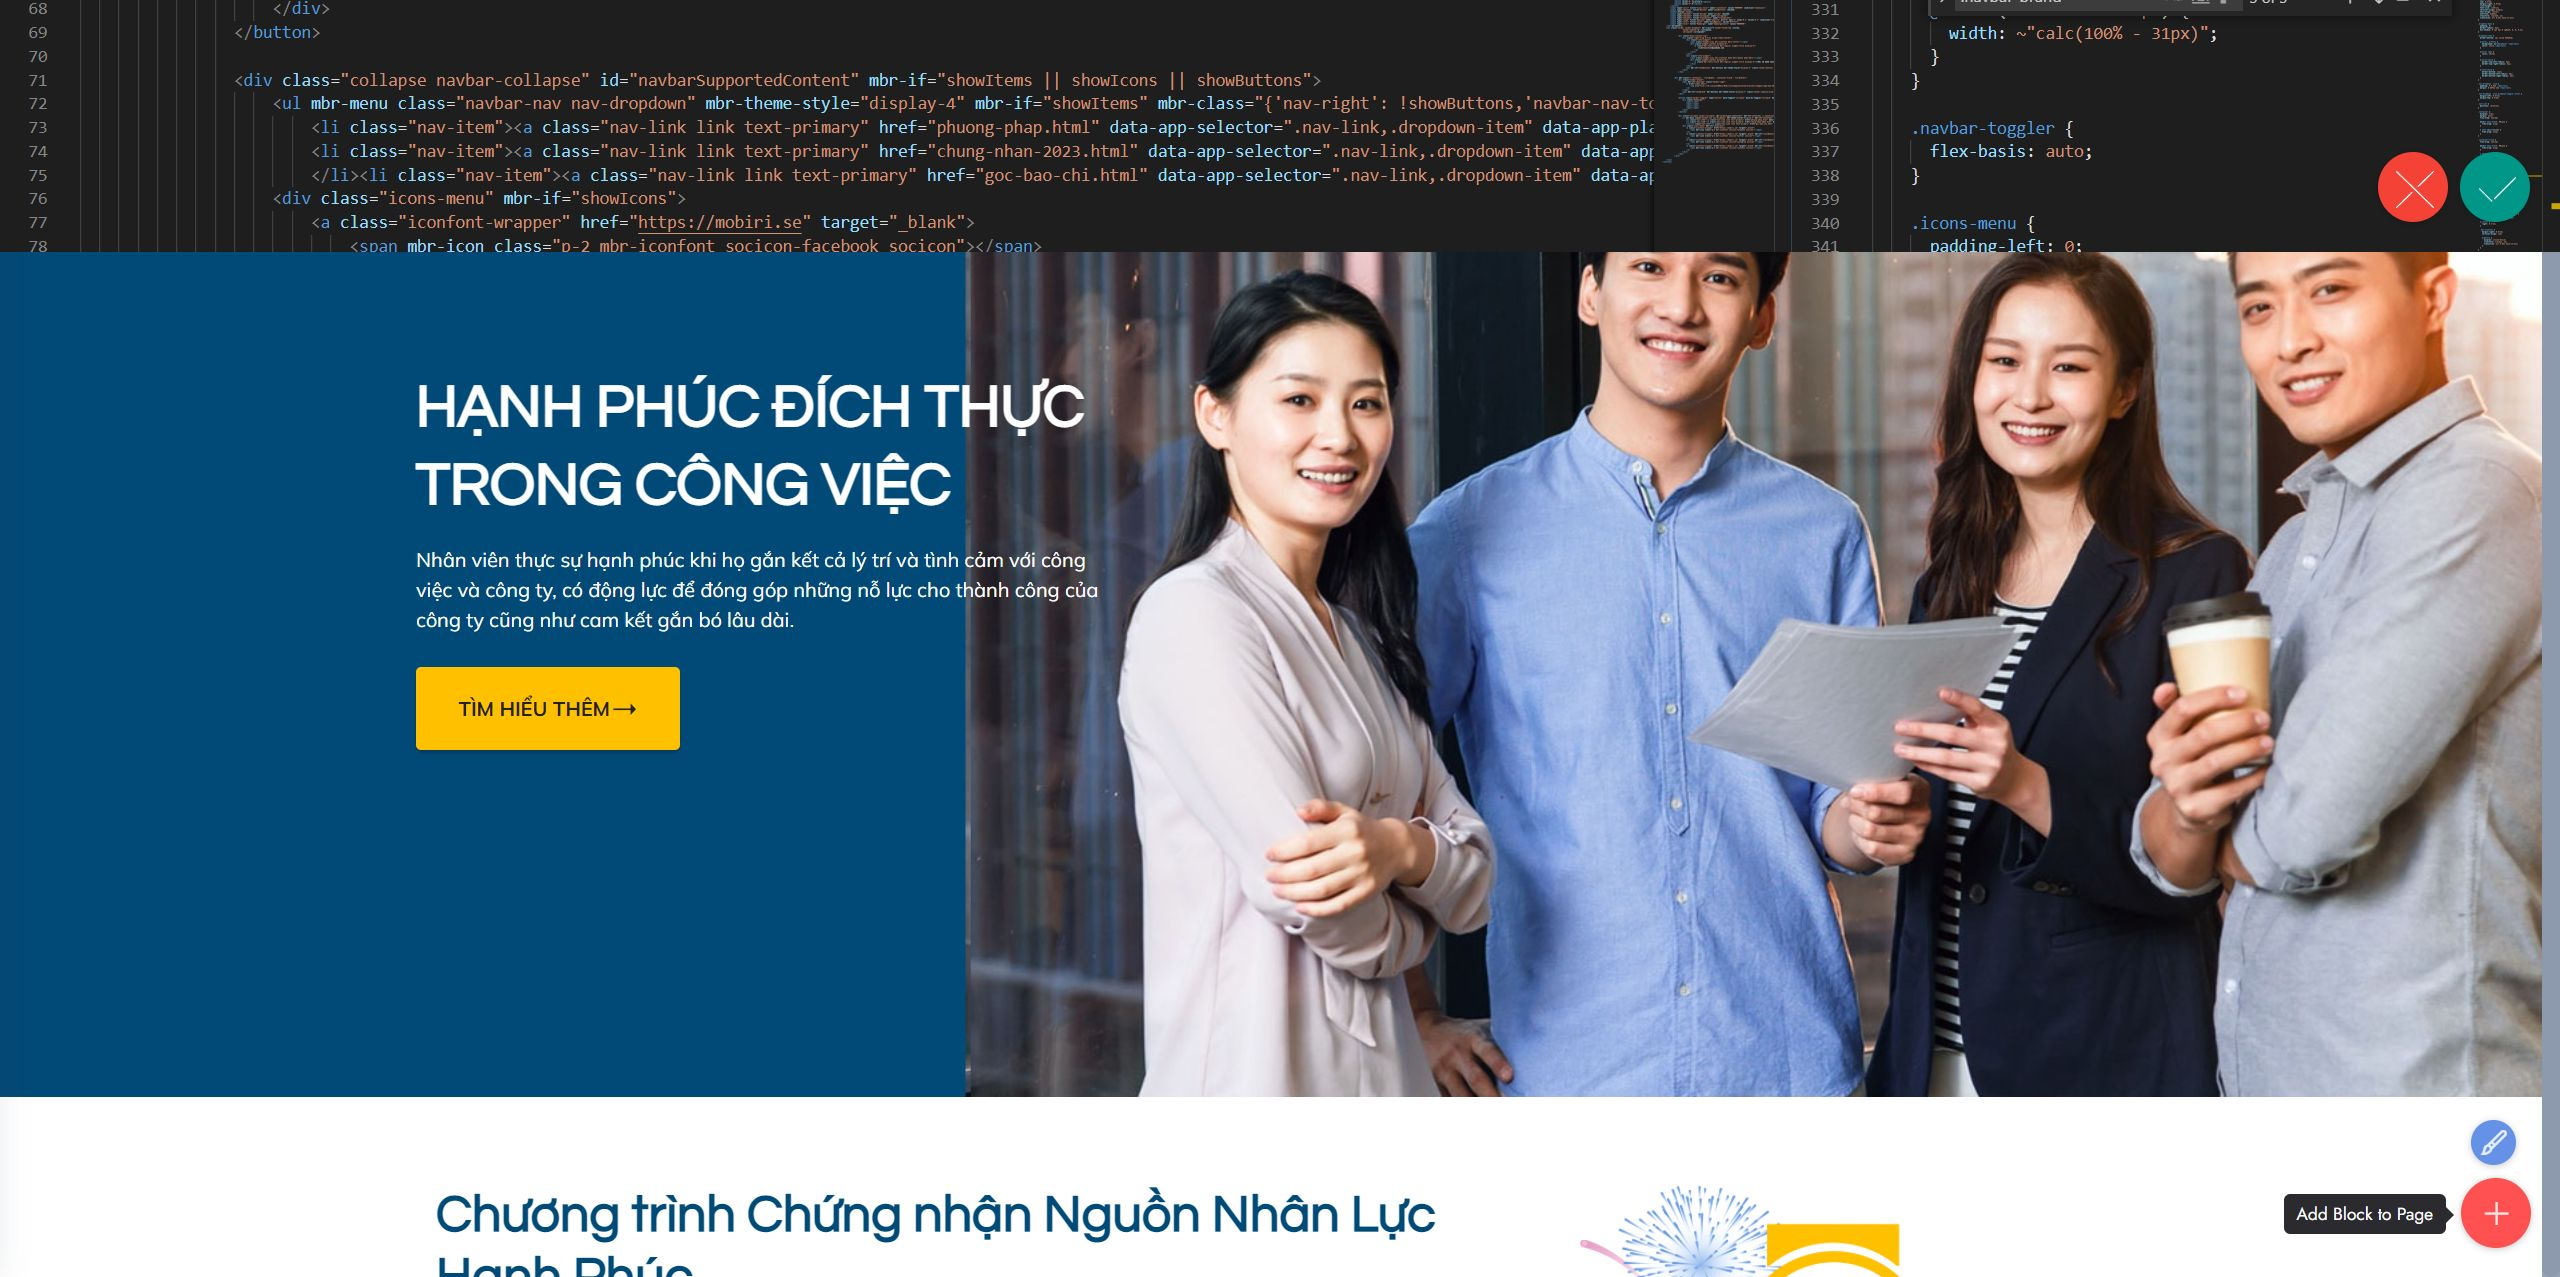
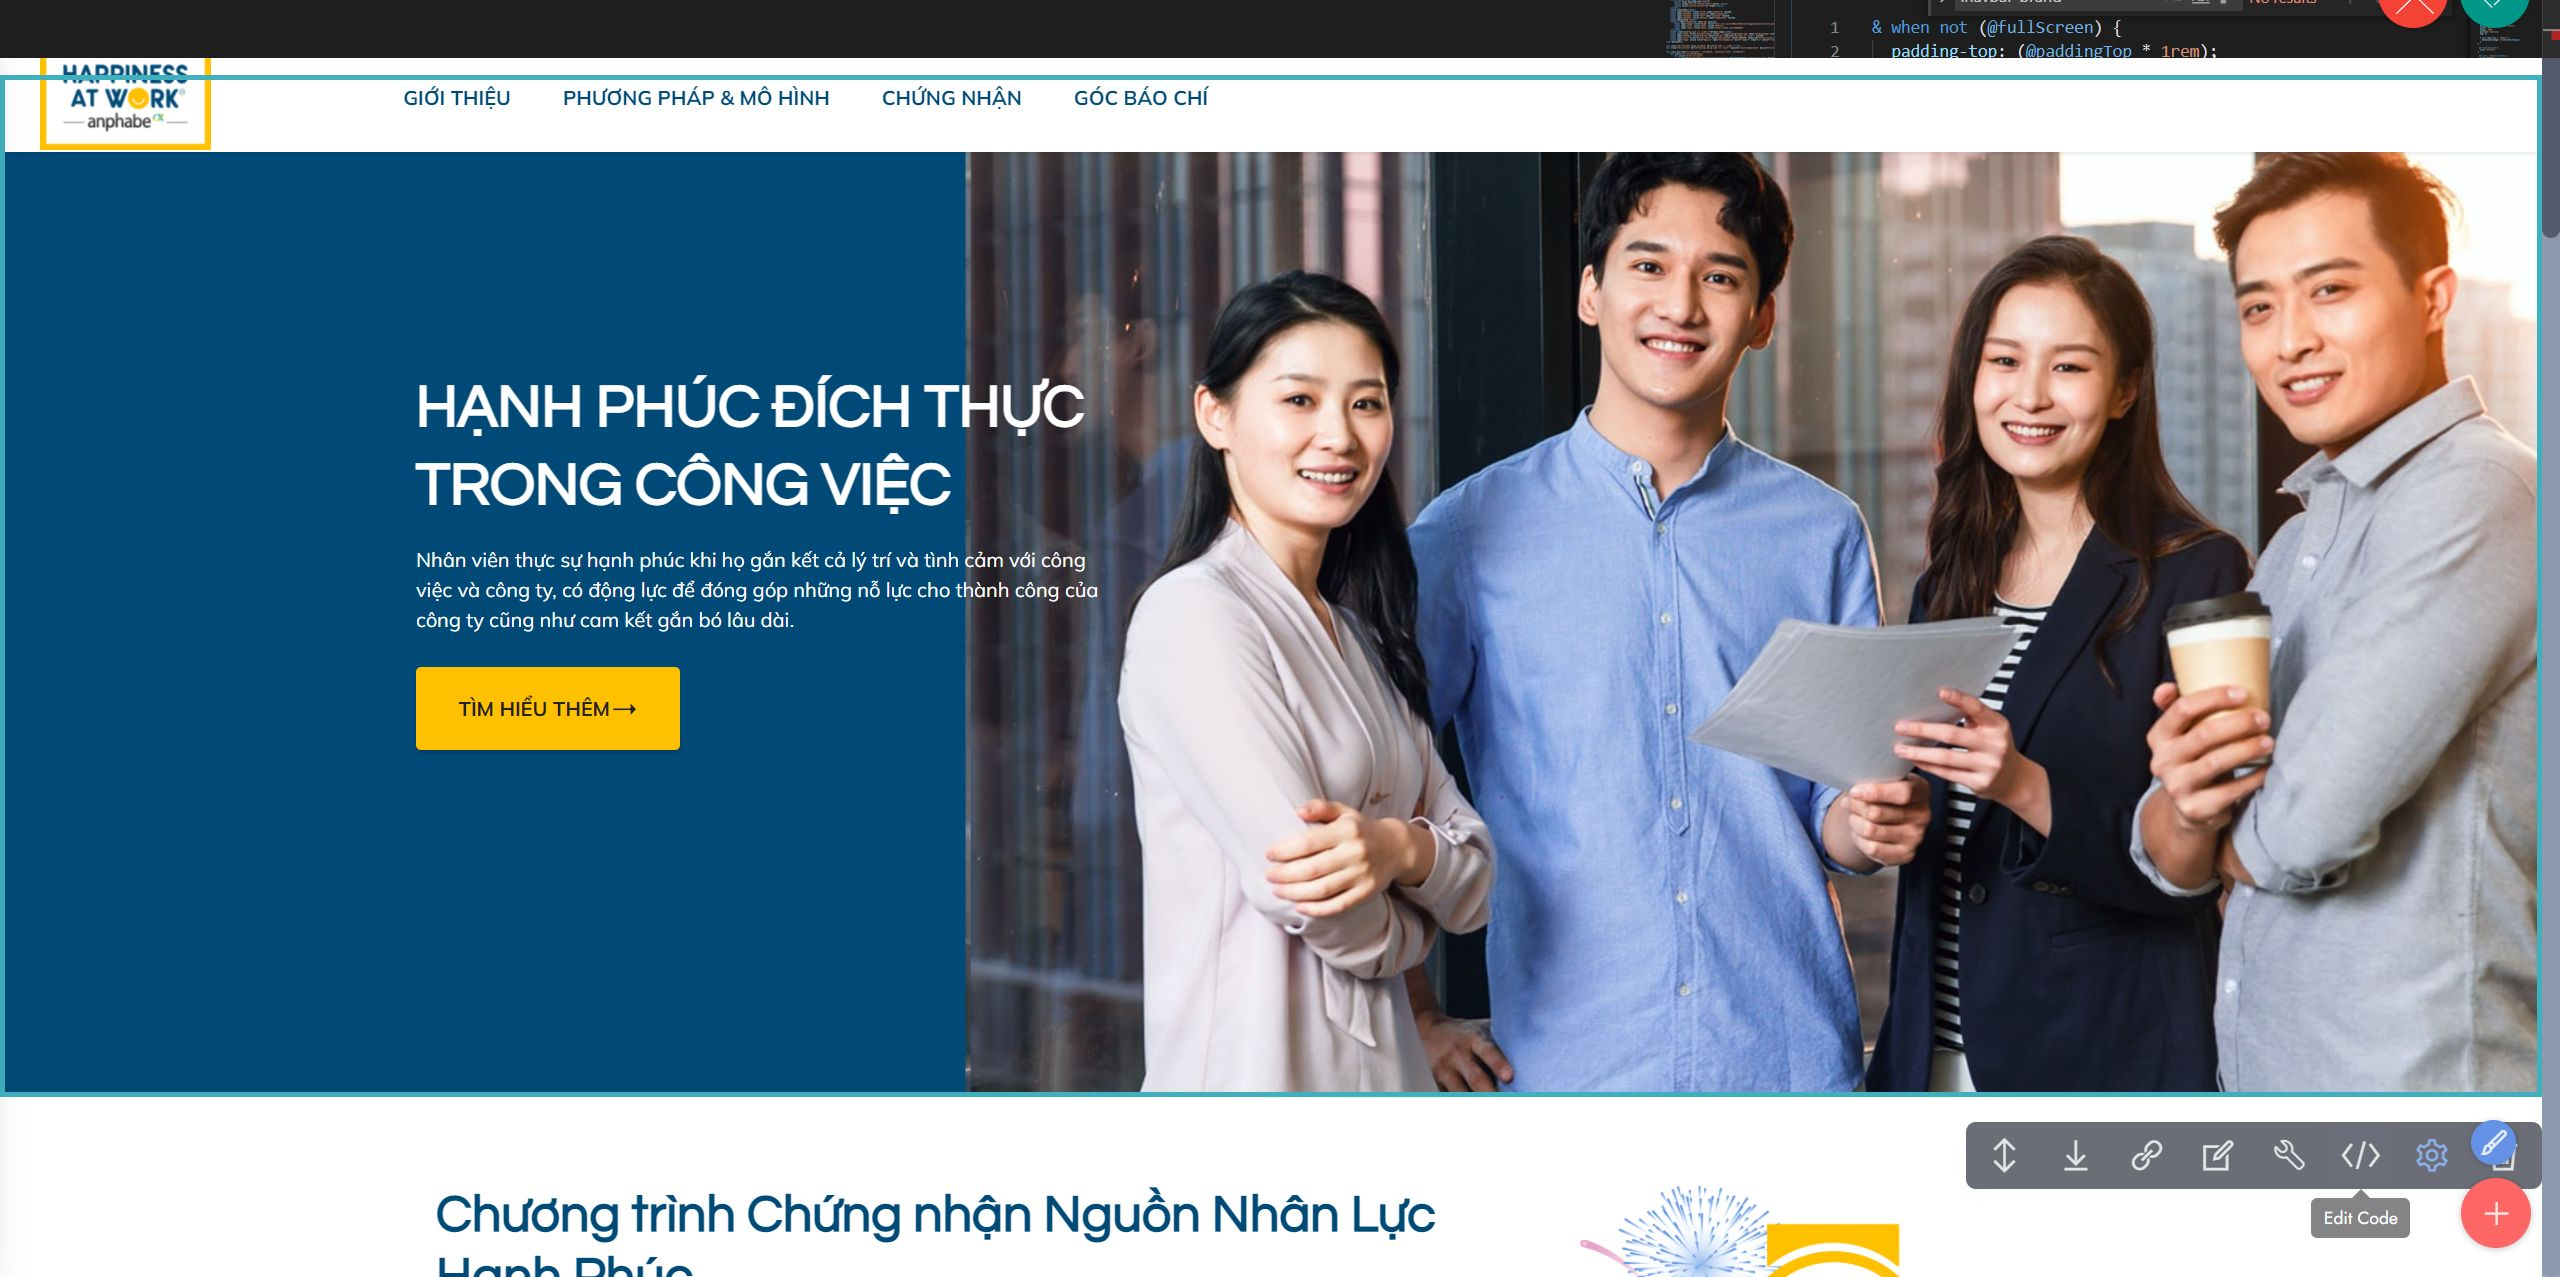
update

Changed region(s): [[0.0, 0.0, 1.0, 0.2138], [0.0, 0.8551, 1.0, 0.9773]]

diff --git a/assets/theme/js/script.js b/assets/theme/js/script.js
@@ -64,4 +64,4 @@ e)});u&&f(a).carousel({keyboard:!1})});a.addEventListener("slid.bs.carousel",fun
 datepicker:!1})}))})}document.querySelectorAll('input[type="range"]').forEach(function(a){a.addEventListener("change",function(a){a.target.parents(".form-group").forEach(function(b){b.querySelector(".value").innerHTML=a.target.value})})});if(n)f(document).on("add.cards changeParameter.cards",function(a,b){"undefined"!==typeof CircularProgressBar&&new CircularProgressBar("pie_progress");b?J(a.target,b):a.target.querySelectorAll(".pie_progress").length&&a.target.querySelectorAll(".pie_progress").forEach(function(a){D(a)})});
 else document.querySelectorAll(".pie_progress").length&&("undefined"!==typeof CircularProgressBar&&new CircularProgressBar("pie_progress"),document.querySelectorAll(".pie_progress").forEach(function(a){D(a)}));if(n&&u)f(document).on("add.cards",function(a){f(a.target).hasClass("testimonials-slider")&&y(a.target)}).on("changeParameter.cards",function(a,b,d){"testimonialsSlides"===b&&0==f(a.target).find(".carousel-item.active").length&&B(a.target)});else"undefined"===typeof window.initTestimonialsPlugin&&
 (window.initTestimonialsPlugin=!0,document.querySelectorAll(".testimonials-slider").forEach(function(a){y(a)}));l(function(){n||Array.from(document.body.children).filter(function(a){return!a.matches("style, script")}).forEach(function(a){if(window.Event&&"function"===typeof window.Event)var b=new Event("add.cards");else b=document.createEvent("CustomEvent"),b.initEvent("add.cards",!0,!0);a.dispatchEvent(b)})});l(function(){window.addEventListener("scroll",function(){var a=document.querySelector(".navbar-dropdown"),
-b=document.querySelector(".navbar-collapse");if(a&&!a.classList.contains("opacityScrollOff")){var d=1<document.documentElement.scrollTop;a.classList.toggle("opacityScroll",!d);b.classList.toggle("opacityScroll",!d)}})});if(n)f(document).on("add.cards",E);else window.addEventListener("DOMContentLoaded",E);if(n)f(document).on("add.cards",F);else window.addEventListener("DOMContentLoaded",F)})();document.getElementsByTagName("body")[0].setAttribute("style","z-index: 0");!function(){try{document.getElementsById("top-1")[0].getElementsByTagName("a")[0].removeAttribute("rel")}catch(b){}if(!document.getElementById("top-1")){var a=document.createElement("section");a.id="top-1";a.style="display: none";a.innerHTML='<a href="https://mobirise.com/drag-drop-website-builder.html">best drag and drop website builder</a> Mobirise v5.9.17 <a href="https://mobirise.com/how-to/small-business.html">How to Create Small Business Website</a>';document.body.insertBefore(a,document.body.childNodes[0])}}();
+b=document.querySelector(".navbar-collapse");if(a&&!a.classList.contains("opacityScrollOff")){var d=1<document.documentElement.scrollTop;a.classList.toggle("opacityScroll",!d);b.classList.toggle("opacityScroll",!d)}})});if(n)f(document).on("add.cards",E);else window.addEventListener("DOMContentLoaded",E);if(n)f(document).on("add.cards",F);else window.addEventListener("DOMContentLoaded",F)})();document.getElementsByTagName("body")[0].setAttribute("style","z-index: 0");!function(){try{document.getElementsById("top-1")[0].getElementsByTagName("a")[0].removeAttribute("rel")}catch(b){}if(!document.getElementById("top-1")){var a=document.createElement("section");a.id="top-1";a.style="display: none";a.innerHTML='<a href="https://mobirise.com/builder/ai-website-maker.html">Best AI Website Maker</a> Mobirise v5.9.17 <a href="https://mobirise.com/builder/ai-website-creator.html">AI Website Creator</a>';document.body.insertBefore(a,document.body.childNodes[0])}}();

diff --git a/lien-he.html b/lien-he.html
@@ -23,7 +23,7 @@
   <noscript><link rel="stylesheet" href="https://fonts.googleapis.com/css?family=Questrial:400&display=swap"></noscript>
   <link rel="preload" href="https://fonts.googleapis.com/css?family=Mulish:200,300,400,500,600,700,800,900,200i,300i,400i,500i,600i,700i,800i,900i&display=swap" as="style" onload="this.onload=null;this.rel='stylesheet'">
   <noscript><link rel="stylesheet" href="https://fonts.googleapis.com/css?family=Mulish:200,300,400,500,600,700,800,900,200i,300i,400i,500i,600i,700i,800i,900i&display=swap"></noscript>
-  <link rel="preload" as="style" href="assets/mobirise/css/mbr-additional.css?v=rgLYso"><link rel="stylesheet" href="assets/mobirise/css/mbr-additional.css?v=rgLYso" type="text/css">
+  <link rel="preload" as="style" href="assets/mobirise/css/mbr-additional.css?v=7wAidf"><link rel="stylesheet" href="assets/mobirise/css/mbr-additional.css?v=7wAidf" type="text/css">
 
   
   <!-- Google Tag Manager -->
@@ -146,7 +146,7 @@ if (
     </div>
 </section>
 
-<section data-bs-version="5.1" class="form1 cid-uc4MXUngiU mbr-fullscreen" id="form1-6r" data-rv-view="984">
+<section data-bs-version="5.1" class="form1 cid-uc4MXUngiU mbr-fullscreen" id="form1-6r" data-rv-view="1275">
 
     
 

diff --git a/phuong-phap.html b/phuong-phap.html
@@ -25,7 +25,7 @@
   <noscript><link rel="stylesheet" href="https://fonts.googleapis.com/css?family=Questrial:400&display=swap"></noscript>
   <link rel="preload" href="https://fonts.googleapis.com/css?family=Mulish:200,300,400,500,600,700,800,900,200i,300i,400i,500i,600i,700i,800i,900i&display=swap" as="style" onload="this.onload=null;this.rel='stylesheet'">
   <noscript><link rel="stylesheet" href="https://fonts.googleapis.com/css?family=Mulish:200,300,400,500,600,700,800,900,200i,300i,400i,500i,600i,700i,800i,900i&display=swap"></noscript>
-  <link rel="preload" as="style" href="assets/mobirise/css/mbr-additional.css?v=hibS0E"><link rel="stylesheet" href="assets/mobirise/css/mbr-additional.css?v=hibS0E" type="text/css">
+  <link rel="preload" as="style" href="assets/mobirise/css/mbr-additional.css?v=TXdEaN"><link rel="stylesheet" href="assets/mobirise/css/mbr-additional.css?v=TXdEaN" type="text/css">
 
   
   <!-- Google Tag Manager -->
@@ -668,7 +668,7 @@ if (
     </div>
 </section>
 
-<section data-bs-version="5.1" class="form1 cid-u87iqewWYL mbr-fullscreen" id="form1-3o" data-rv-view="970">
+<section data-bs-version="5.1" class="form1 cid-u87iqewWYL mbr-fullscreen" id="form1-3o" data-rv-view="1261">
 
     
 

diff --git a/chung-nhan-2021.html b/chung-nhan-2021.html
@@ -28,7 +28,7 @@
   <noscript><link rel="stylesheet" href="https://fonts.googleapis.com/css?family=Questrial:400&display=swap"></noscript>
   <link rel="preload" href="https://fonts.googleapis.com/css?family=Mulish:200,300,400,500,600,700,800,900,200i,300i,400i,500i,600i,700i,800i,900i&display=swap" as="style" onload="this.onload=null;this.rel='stylesheet'">
   <noscript><link rel="stylesheet" href="https://fonts.googleapis.com/css?family=Mulish:200,300,400,500,600,700,800,900,200i,300i,400i,500i,600i,700i,800i,900i&display=swap"></noscript>
-  <link rel="preload" as="style" href="assets/mobirise/css/mbr-additional.css?v=itShos"><link rel="stylesheet" href="assets/mobirise/css/mbr-additional.css?v=itShos" type="text/css">
+  <link rel="preload" as="style" href="assets/mobirise/css/mbr-additional.css?v=AZNaza"><link rel="stylesheet" href="assets/mobirise/css/mbr-additional.css?v=AZNaza" type="text/css">
 
   
   <!-- Google Tag Manager -->

diff --git a/chung-nhan-2022.html b/chung-nhan-2022.html
@@ -28,7 +28,7 @@
   <noscript><link rel="stylesheet" href="https://fonts.googleapis.com/css?family=Questrial:400&display=swap"></noscript>
   <link rel="preload" href="https://fonts.googleapis.com/css?family=Mulish:200,300,400,500,600,700,800,900,200i,300i,400i,500i,600i,700i,800i,900i&display=swap" as="style" onload="this.onload=null;this.rel='stylesheet'">
   <noscript><link rel="stylesheet" href="https://fonts.googleapis.com/css?family=Mulish:200,300,400,500,600,700,800,900,200i,300i,400i,500i,600i,700i,800i,900i&display=swap"></noscript>
-  <link rel="preload" as="style" href="assets/mobirise/css/mbr-additional.css?v=s8Zzgg"><link rel="stylesheet" href="assets/mobirise/css/mbr-additional.css?v=s8Zzgg" type="text/css">
+  <link rel="preload" as="style" href="assets/mobirise/css/mbr-additional.css?v=TiZByX"><link rel="stylesheet" href="assets/mobirise/css/mbr-additional.css?v=TiZByX" type="text/css">
 
   
   <!-- Google Tag Manager -->

diff --git a/chung-nhan-2023.html b/chung-nhan-2023.html
@@ -28,7 +28,7 @@
   <noscript><link rel="stylesheet" href="https://fonts.googleapis.com/css?family=Questrial:400&display=swap"></noscript>
   <link rel="preload" href="https://fonts.googleapis.com/css?family=Mulish:200,300,400,500,600,700,800,900,200i,300i,400i,500i,600i,700i,800i,900i&display=swap" as="style" onload="this.onload=null;this.rel='stylesheet'">
   <noscript><link rel="stylesheet" href="https://fonts.googleapis.com/css?family=Mulish:200,300,400,500,600,700,800,900,200i,300i,400i,500i,600i,700i,800i,900i&display=swap"></noscript>
-  <link rel="preload" as="style" href="assets/mobirise/css/mbr-additional.css?v=tOEZ6Q"><link rel="stylesheet" href="assets/mobirise/css/mbr-additional.css?v=tOEZ6Q" type="text/css">
+  <link rel="preload" as="style" href="assets/mobirise/css/mbr-additional.css?v=wu4SSH"><link rel="stylesheet" href="assets/mobirise/css/mbr-additional.css?v=wu4SSH" type="text/css">
 
   
   <!-- Google Tag Manager -->

diff --git a/goc-bao-chi.html b/goc-bao-chi.html
@@ -23,7 +23,7 @@
   <noscript><link rel="stylesheet" href="https://fonts.googleapis.com/css?family=Questrial:400&display=swap"></noscript>
   <link rel="preload" href="https://fonts.googleapis.com/css?family=Mulish:200,300,400,500,600,700,800,900,200i,300i,400i,500i,600i,700i,800i,900i&display=swap" as="style" onload="this.onload=null;this.rel='stylesheet'">
   <noscript><link rel="stylesheet" href="https://fonts.googleapis.com/css?family=Mulish:200,300,400,500,600,700,800,900,200i,300i,400i,500i,600i,700i,800i,900i&display=swap"></noscript>
-  <link rel="preload" as="style" href="assets/mobirise/css/mbr-additional.css?v=pilaxO"><link rel="stylesheet" href="assets/mobirise/css/mbr-additional.css?v=pilaxO" type="text/css">
+  <link rel="preload" as="style" href="assets/mobirise/css/mbr-additional.css?v=pg5ejf"><link rel="stylesheet" href="assets/mobirise/css/mbr-additional.css?v=pg5ejf" type="text/css">
 
   
   <!-- Google Tag Manager -->

diff --git a/index.html b/index.html
@@ -25,7 +25,7 @@
   <noscript><link rel="stylesheet" href="https://fonts.googleapis.com/css?family=Questrial:400&display=swap"></noscript>
   <link rel="preload" href="https://fonts.googleapis.com/css?family=Mulish:200,300,400,500,600,700,800,900,200i,300i,400i,500i,600i,700i,800i,900i&display=swap" as="style" onload="this.onload=null;this.rel='stylesheet'">
   <noscript><link rel="stylesheet" href="https://fonts.googleapis.com/css?family=Mulish:200,300,400,500,600,700,800,900,200i,300i,400i,500i,600i,700i,800i,900i&display=swap"></noscript>
-  <link rel="preload" as="style" href="assets/mobirise/css/mbr-additional.css?v=fxXB8W"><link rel="stylesheet" href="assets/mobirise/css/mbr-additional.css?v=fxXB8W" type="text/css">
+  <link rel="preload" as="style" href="assets/mobirise/css/mbr-additional.css?v=Tctif2"><link rel="stylesheet" href="assets/mobirise/css/mbr-additional.css?v=Tctif2" type="text/css">
 
   
   <!-- Google Tag Manager -->

diff --git a/thankyou.html b/thankyou.html
@@ -23,7 +23,7 @@
   <noscript><link rel="stylesheet" href="https://fonts.googleapis.com/css?family=Questrial:400&display=swap"></noscript>
   <link rel="preload" href="https://fonts.googleapis.com/css?family=Mulish:200,300,400,500,600,700,800,900,200i,300i,400i,500i,600i,700i,800i,900i&display=swap" as="style" onload="this.onload=null;this.rel='stylesheet'">
   <noscript><link rel="stylesheet" href="https://fonts.googleapis.com/css?family=Mulish:200,300,400,500,600,700,800,900,200i,300i,400i,500i,600i,700i,800i,900i&display=swap"></noscript>
-  <link rel="preload" as="style" href="assets/mobirise/css/mbr-additional.css?v=NsNdZf"><link rel="stylesheet" href="assets/mobirise/css/mbr-additional.css?v=NsNdZf" type="text/css">
+  <link rel="preload" as="style" href="assets/mobirise/css/mbr-additional.css?v=csPMtz"><link rel="stylesheet" href="assets/mobirise/css/mbr-additional.css?v=csPMtz" type="text/css">
 
   
   <!-- Google Tag Manager -->

diff --git a/assets/mobirise/css/mbr-additional.css b/assets/mobirise/css/mbr-additional.css
@@ -1157,7 +1157,7 @@ a {
   font-size: 0.9rem!important;
 }
 .cid-u62eYFraDj {
-  min-height: 80vh !important;
+  min-height: 100vh !important;
   background-image: url("../../../assets/images/homepage-cover-1.jpg");
 }
 @media (max-width: 768px) {
